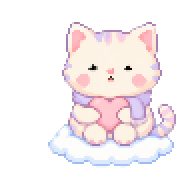
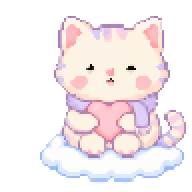
destiny-number: 고양이 스프라이트를 카드 안에서 더 크게 보이도록 재정렬(v5)
- 눈 간격 기준 1.15배 확대, 가장자리 자동 밀어넣기로 잘림 방지
- PNG 카드·og 이미지 동일 비율 반영

Changed region(s): [[0.1875, 0.0625, 0.9688, 0.9688], [0.5312, 0.375, 0.5938, 0.4688]]

diff --git a/destiny-number/index.html b/destiny-number/index.html
@@ -61,7 +61,7 @@
           <div class="scene" aria-hidden="true">
             <img class="scene-art" src="assets/pixel-scene.webp" width="344" height="112" alt="">
             <span class="hud"><i class="hud-heart"></i> 2027</span>
-            <img class="scene-cat" src="assets/cats/cat-hero.png?v=4" width="192" height="192" alt="">
+            <img class="scene-cat" src="assets/cats/cat-hero.png?v=5" width="192" height="192" alt="">
           </div>
 
           <div class="hero-copy">
@@ -125,7 +125,7 @@
       <div class="num-row">
         <span class="num-big" id="num-big"></span>
         <span class="stamp" id="stamp" hidden></span>
-        <img class="num-cat" id="num-cat" src="assets/cats/cat-hero.png?v=4" width="192" height="192" alt="">
+        <img class="num-cat" id="num-cat" src="assets/cats/cat-hero.png?v=5" width="192" height="192" alt="">
       </div>
       <h2 class="nick" id="num-nick"></h2>
       <p class="num-tag" id="num-tag"></p>

diff --git a/destiny-number/app.js b/destiny-number/app.js
@@ -108,7 +108,7 @@
     $('num-tag').textContent = L.tag;
 
     var catEl = $('num-cat');
-    catEl.src = 'assets/cats/cat-' + r.lp + '.png?v=4';
+    catEl.src = 'assets/cats/cat-' + r.lp + '.png?v=5';
     catEl.alt = cat.name + ' 도트 고양이';
     $('cat-name').textContent = cat.name;
     $('cat-line').textContent = cat.line;
@@ -447,7 +447,7 @@
     var key = 'c' + n;
     if (!catCache[key]) {
       var im = new Image();
-      im.src = 'assets/cats/cat-' + n + '.png?v=4';
+      im.src = 'assets/cats/cat-' + n + '.png?v=5';
       catCache[key] = im;
     }
     var img = catCache[key];
